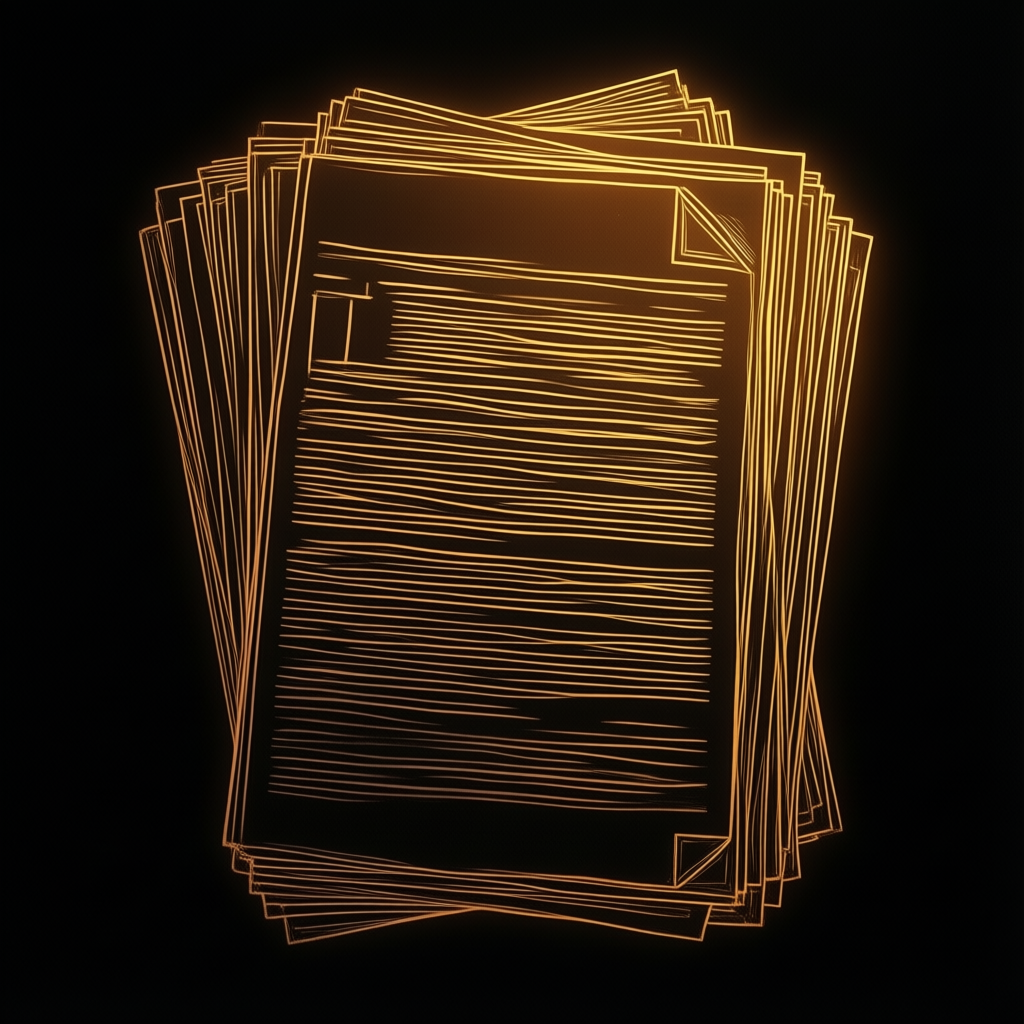
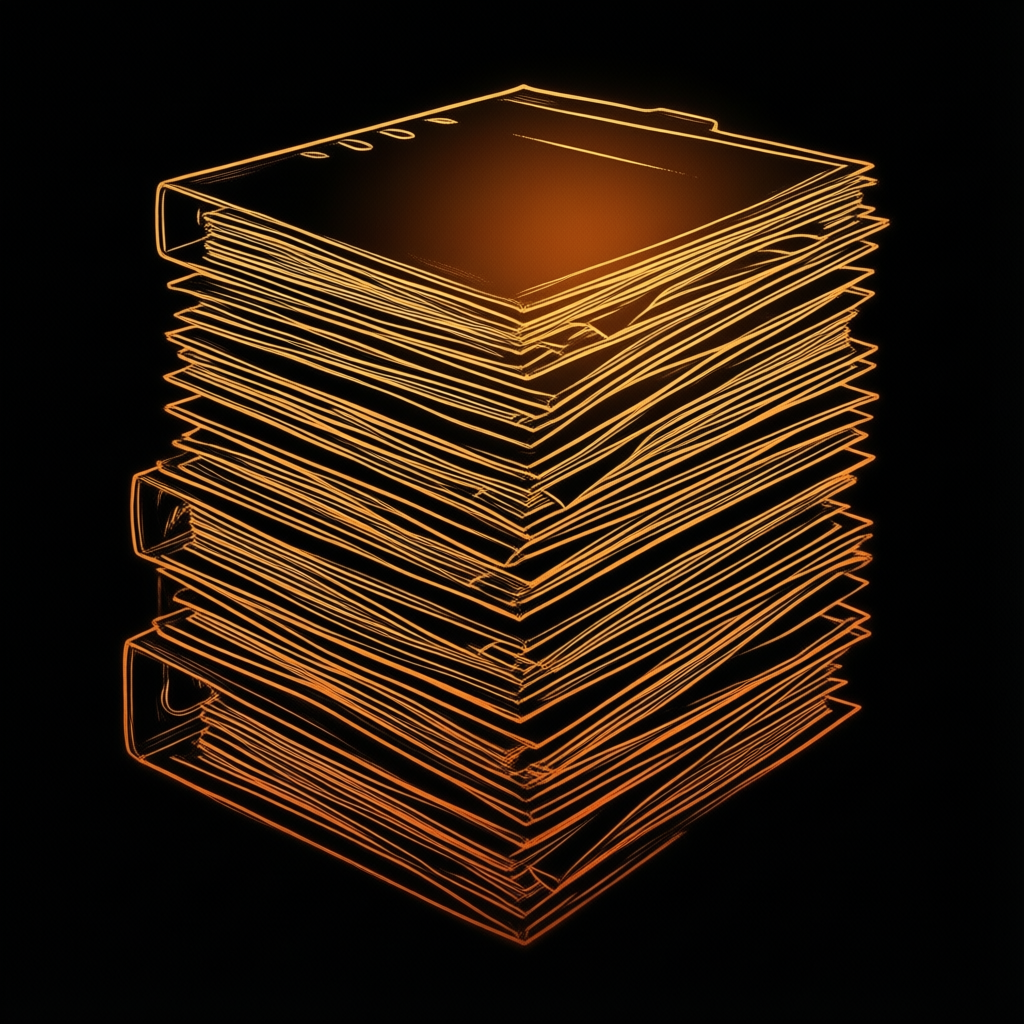
New image for the audit

diff --git a/src/app/app.ts b/src/app/app.ts
@@ -62,7 +62,10 @@ const healthcareProjects: SuccessStory[] = [
 			'Applies complex business rules to arrive at an invoice to be forwarded to the health insurer',
 		],
 		image: 'bills.png',
-		tech: ['Python', 'LLM', 'langchain', 'RabbitMQ'],
+		tech: [
+			'Python', 'LLM', 'langchain', 'RabbitMQ', 'Kubernetes',
+			'Helm'
+		],
 	},
 	{
 		title: 'Rehospitalisation Risk Reduction',
